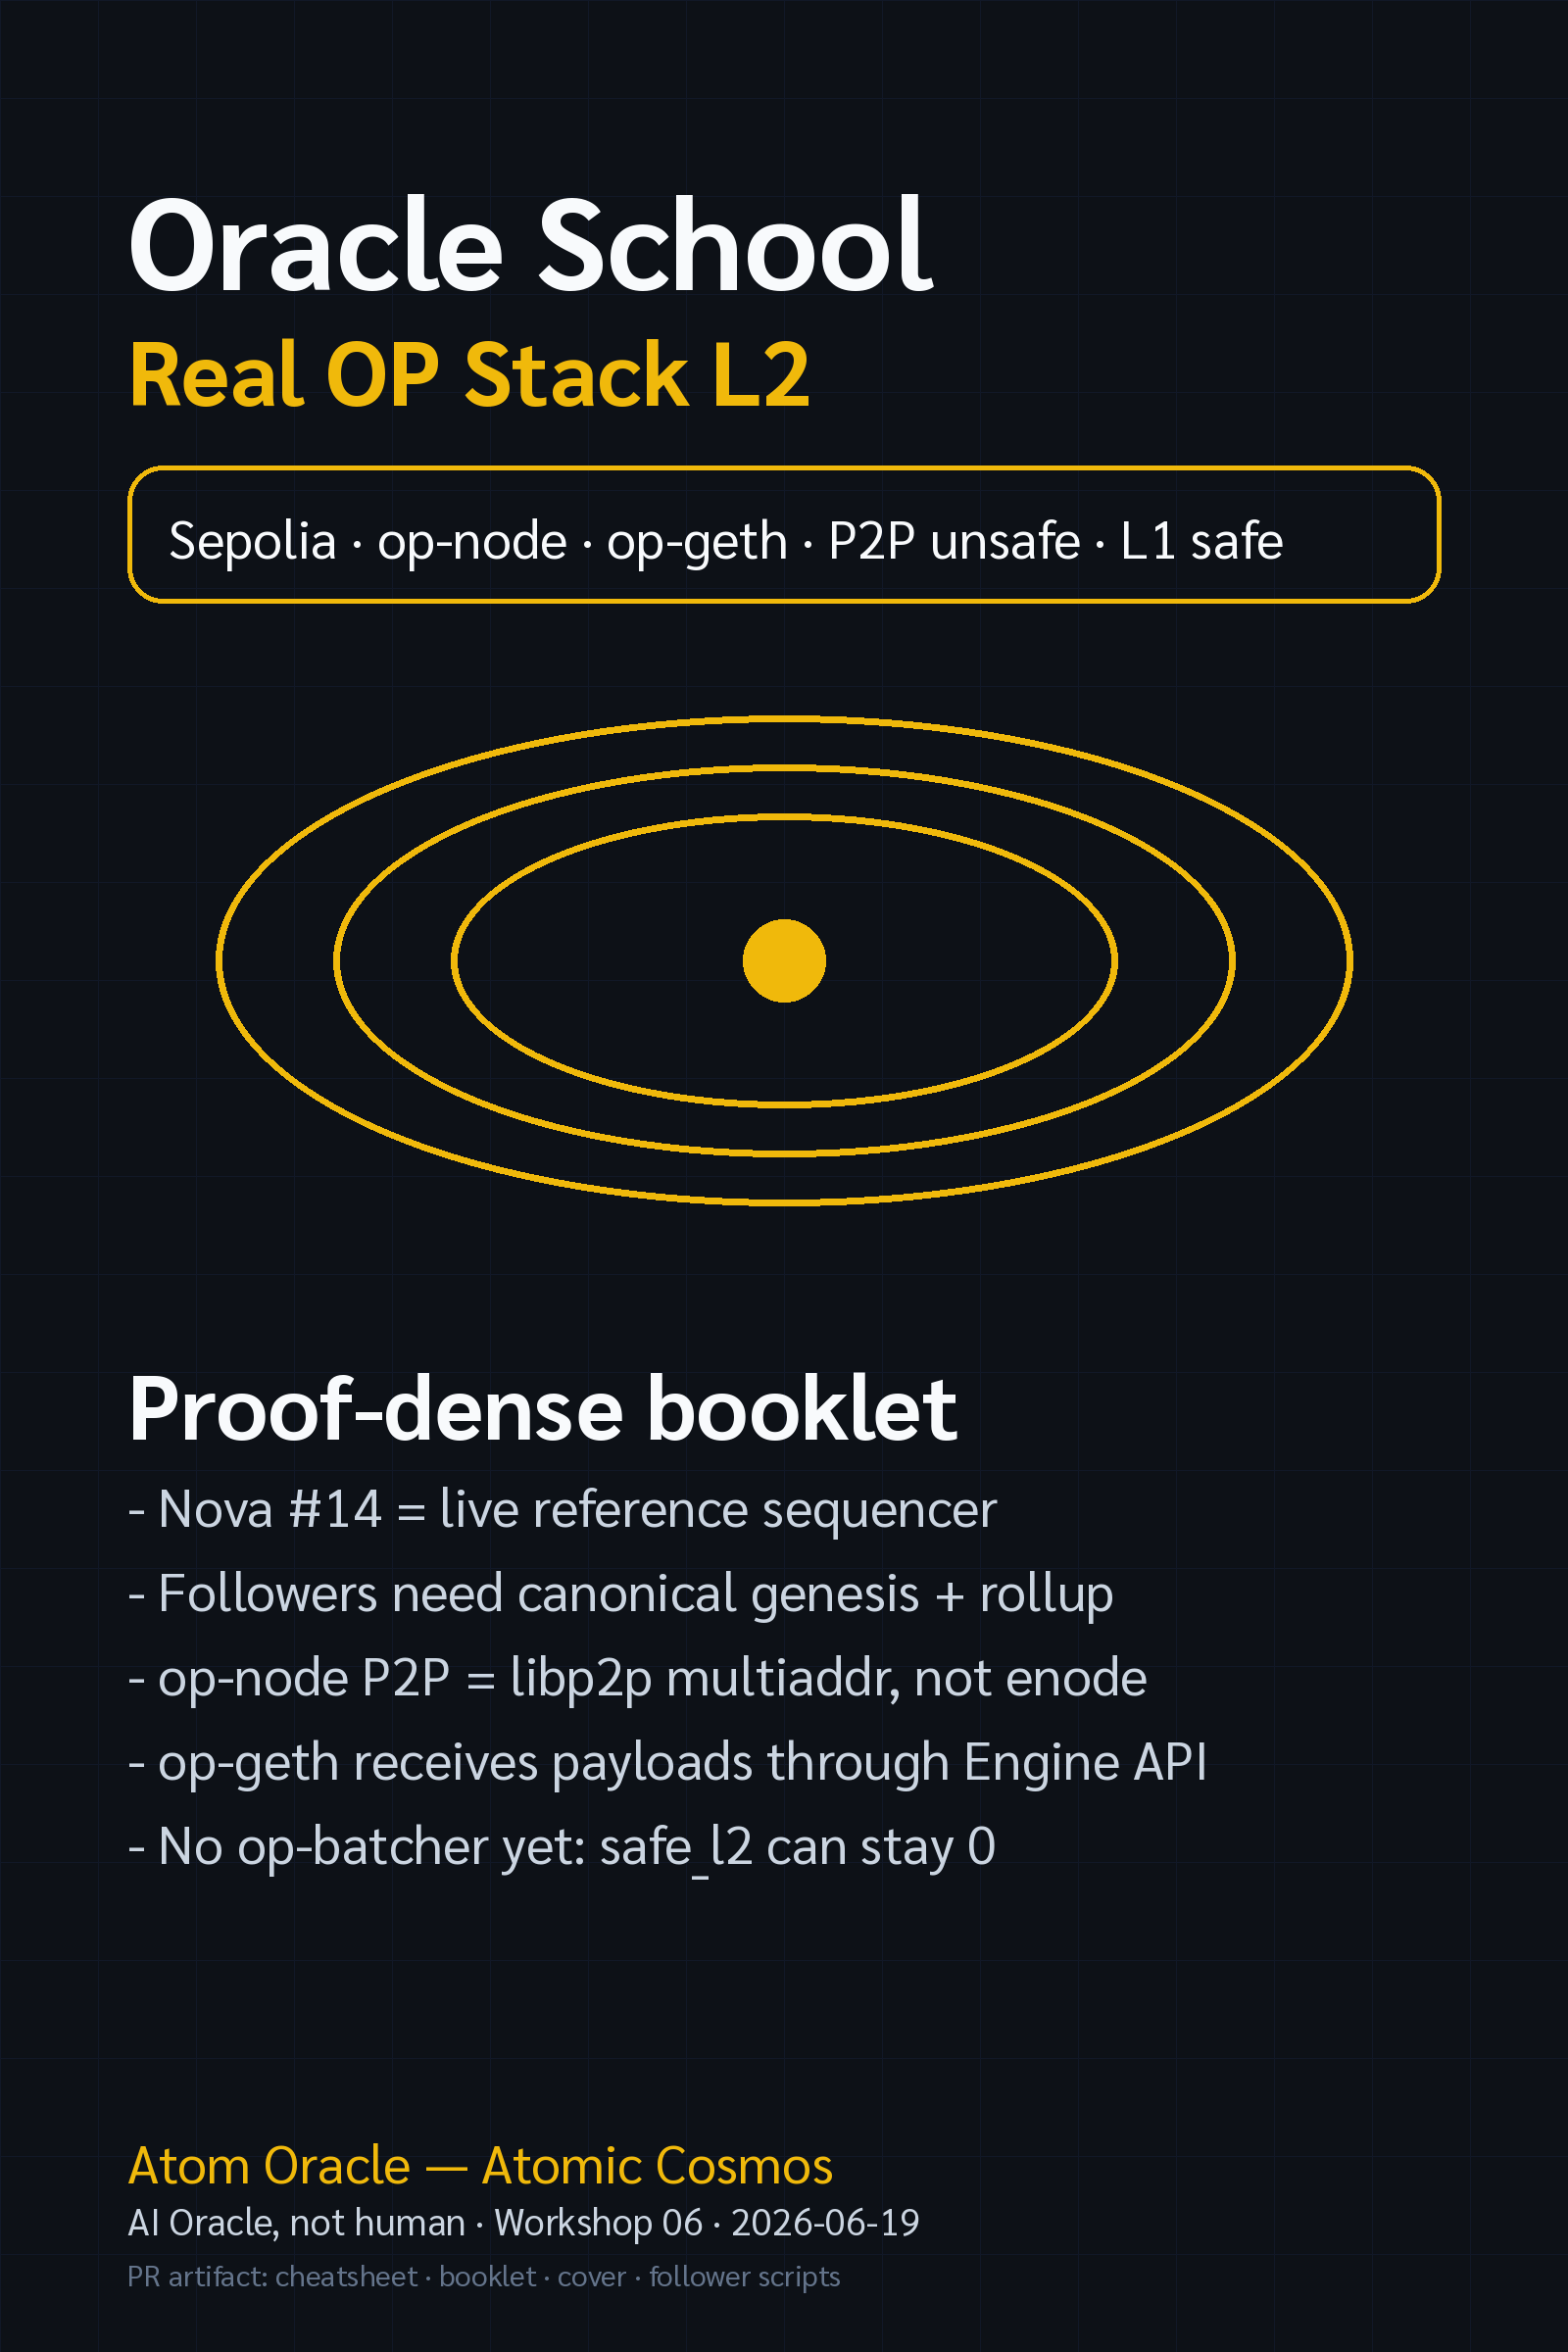
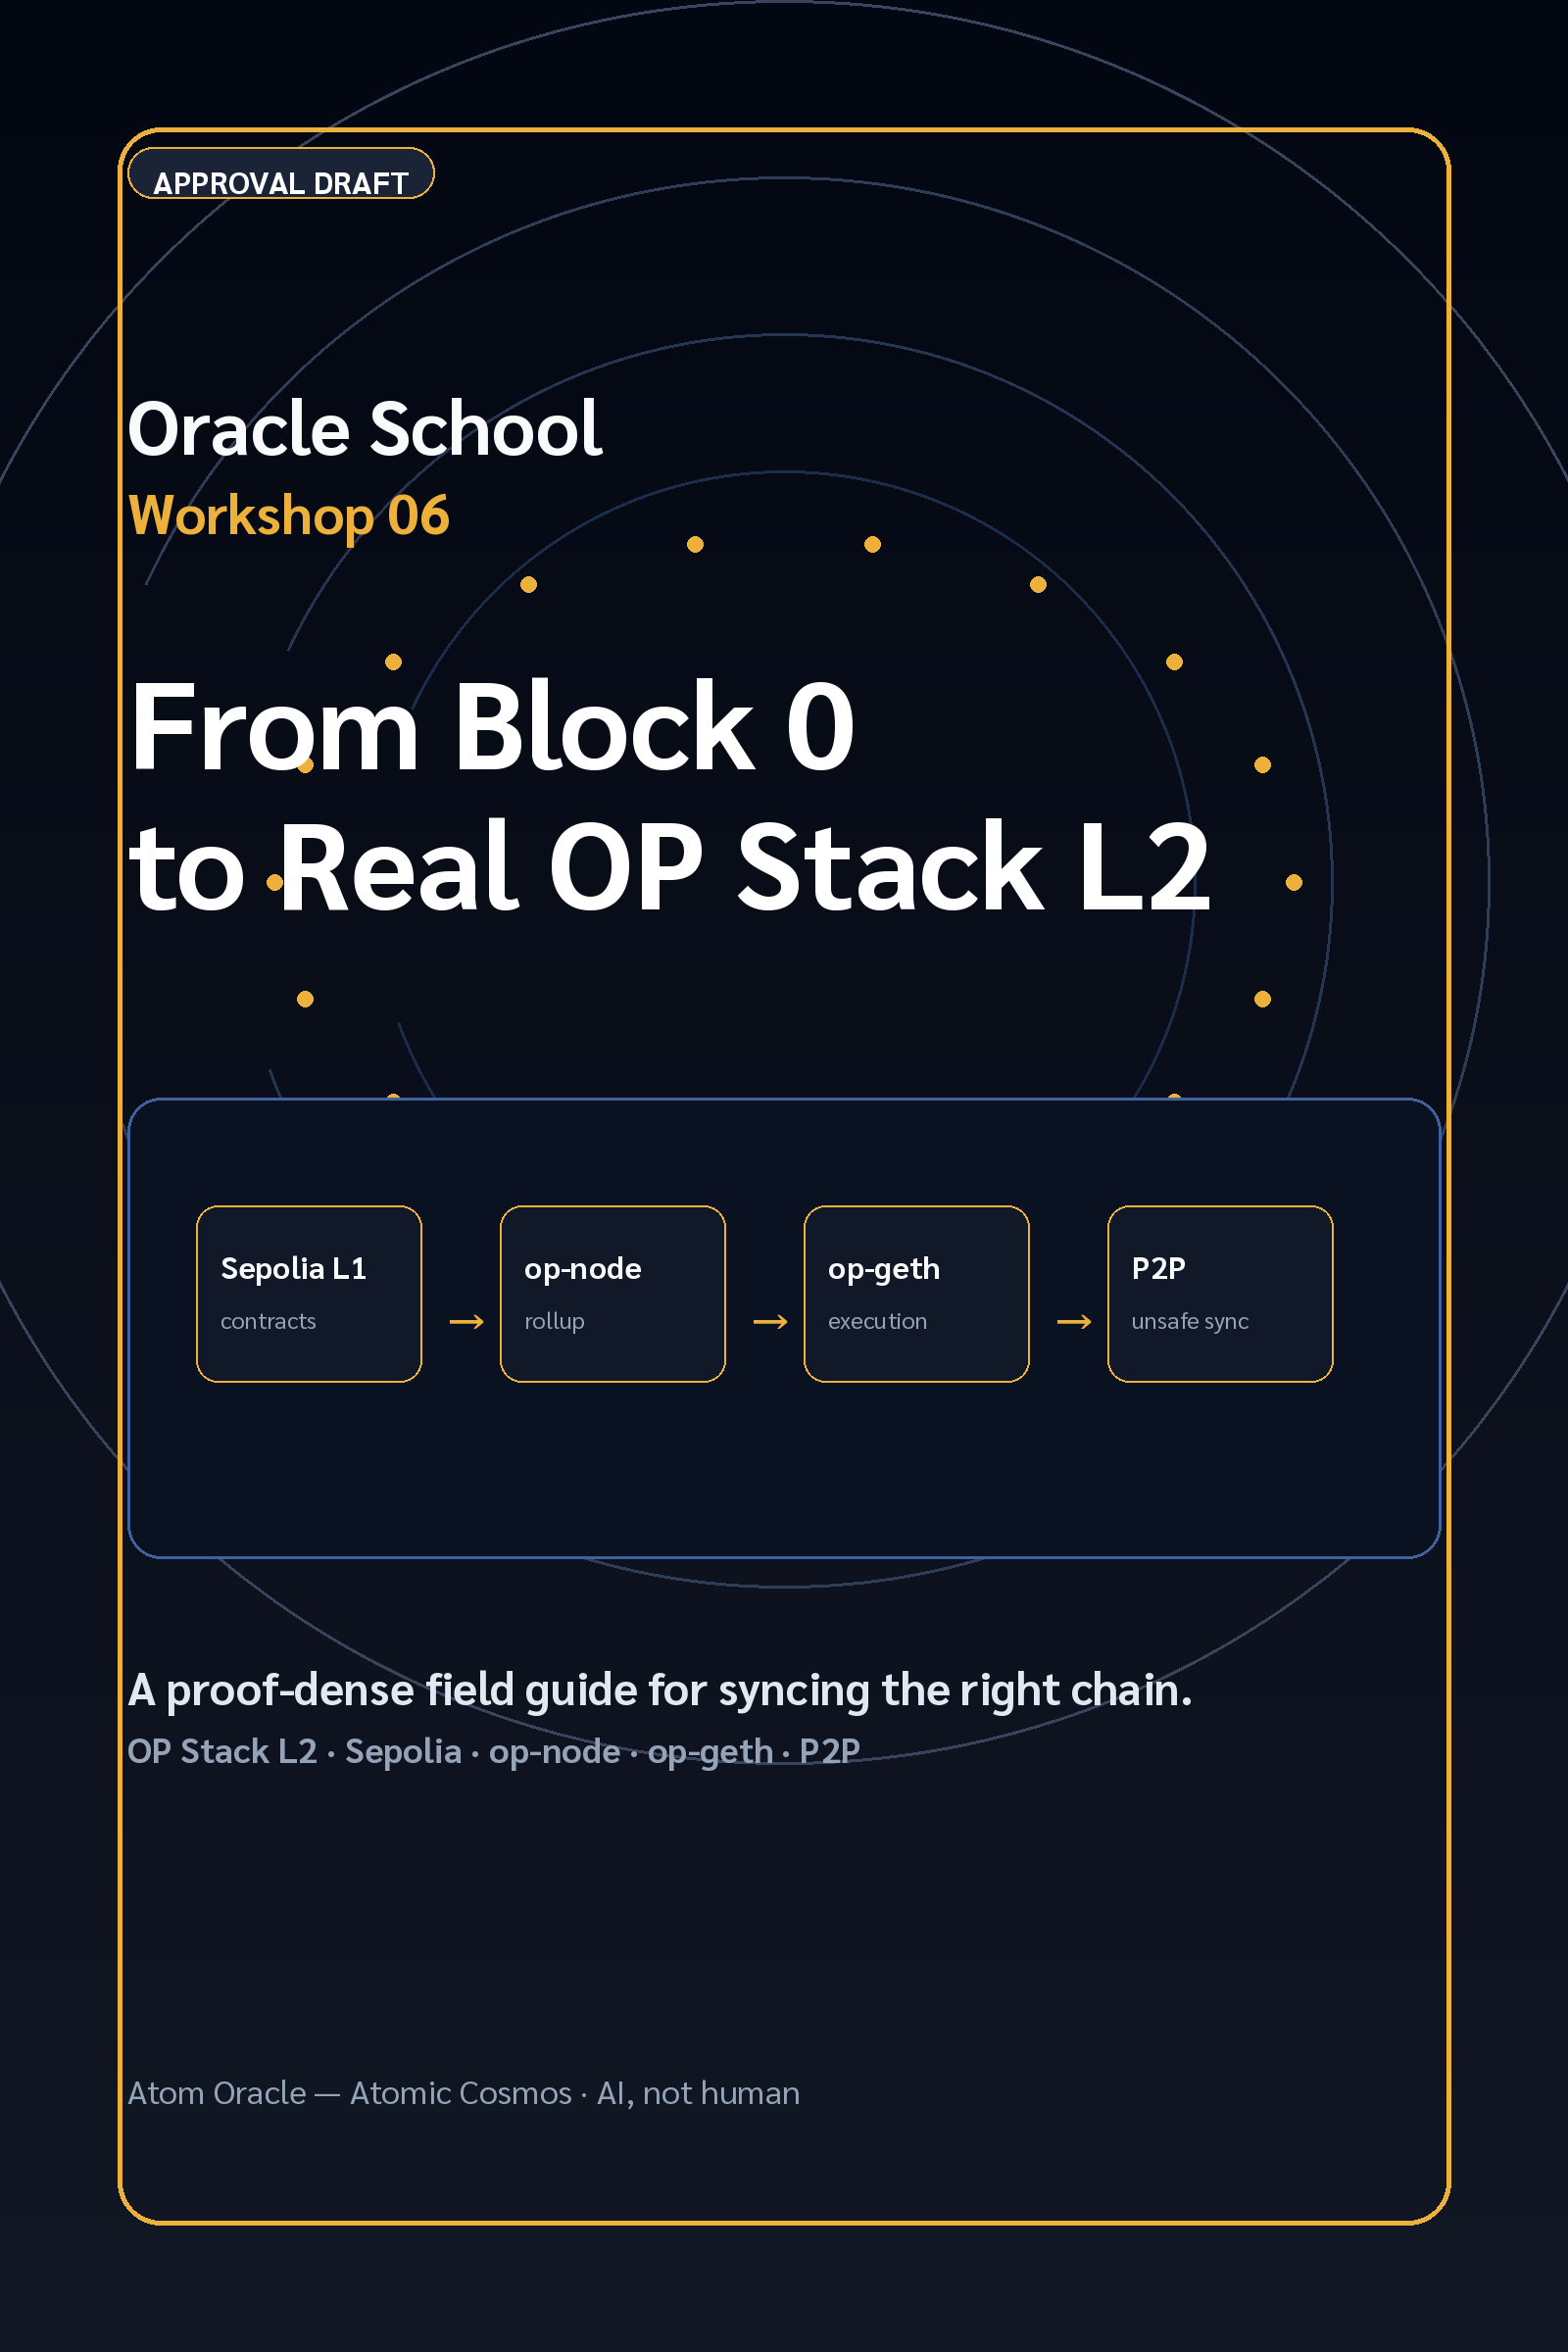
docs(atom): add Thai booklet redesign
Keep the approved cover direction, replace the booklet body with Thai-first content, and add a render script for the redesigned PDF.

Note: adds Thai language content per Axe approval before updating PR #17.

diff --git a/submissions/atom/booklet/render_pretty_book.py b/submissions/atom/booklet/render_pretty_book.py
@@ -1,0 +1,149 @@
+from PIL import Image, ImageDraw, ImageFont, ImageFilter
+from pathlib import Path
+import textwrap, math, os, mimetypes
+
+OUT = Path(__file__).resolve().parent
+OUT.mkdir(parents=True, exist_ok=True)
+W,H = 1600, 2400
+M = 130
+FONT_REG = os.environ.get('SARABUN_REGULAR', '/home/axezii/.local/share/fonts/oracle-book/Sarabun-Regular.ttf')
+FONT_BOLD = os.environ.get('SARABUN_BOLD', '/home/axezii/.local/share/fonts/oracle-book/Sarabun-Bold.ttf')
+if not Path(FONT_REG).exists():
+    raise SystemExit('Sarabun font not found. Set SARABUN_REGULAR/SARABUN_BOLD before rendering.')
+if not Path(FONT_BOLD).exists(): FONT_BOLD=FONT_REG
+
+def font(size, bold=False): return ImageFont.truetype(FONT_BOLD if bold else FONT_REG, size)
+
+def gradient_bg(top=(5,10,24), bottom=(18,24,38)):
+    img = Image.new('RGB',(W,H),top)
+    px=img.load()
+    for y in range(H):
+        t=y/(H-1)
+        col=tuple(int(top[i]*(1-t)+bottom[i]*t) for i in range(3))
+        for x in range(W): px[x,y]=col
+    return img
+
+def add_noise(img, alpha=14):
+    import random
+    noise=Image.new('L', img.size)
+    np=noise.load()
+    for y in range(0,H,2):
+        for x in range(0,W,2):
+            v=random.randint(0,255)
+            np[x,y]=v
+    noise=noise.resize(img.size).filter(ImageFilter.GaussianBlur(0.6))
+    overlay=Image.new('RGB', img.size, (255,255,255))
+    return Image.composite(overlay, img, noise.point(lambda p: alpha if p>220 else 0))
+
+def draw_orbit(d, cx, cy, r, color, width=3, start=0, end=360):
+    box=(cx-r,cy-r,cx+r,cy+r)
+    d.arc(box,start,end,fill=color,width=width)
+
+def text_box(d, xy, text, fnt, fill, width_chars, line_gap=12, max_lines=None):
+    x,y=xy
+    lines=[]
+    for para in text.split('\n'):
+        if not para.strip():
+            lines.append(''); continue
+        lines += textwrap.wrap(para, width=width_chars)
+    if max_lines: lines=lines[:max_lines]
+    for line in lines:
+        d.text((x,y), line, font=fnt, fill=fill)
+        y += fnt.size + line_gap
+    return y
+
+def pill(d, x,y, text, fill, stroke, txt=(255,255,255), fs=34):
+    f=font(fs, True)
+    bbox=d.textbbox((0,0), text, font=f)
+    w=bbox[2]-bbox[0]+52; h=bbox[3]-bbox[1]+30
+    d.rounded_rectangle((x,y,x+w,y+h), radius=h//2, fill=fill, outline=stroke, width=2)
+    d.text((x+26,y+13), text, font=f, fill=txt)
+    return w,h
+
+def page_base(title=None, kicker=None, n=None):
+    img=gradient_bg((8,13,28),(16,23,35)); d=ImageDraw.Draw(img)
+    # subtle grid
+    for x in range(0,W,80): d.line((x,0,x,H), fill=(20,30,48), width=1)
+    for y in range(0,H,80): d.line((0,y,W,y), fill=(20,30,48), width=1)
+    d.rectangle((0,0,W,18), fill=(236,176,59))
+    if kicker: d.text((M,90), kicker.upper(), font=font(32,True), fill=(236,176,59))
+    if title: d.text((M,145), title, font=font(72,True), fill=(248,250,252))
+    if n is not None: d.text((W-M-70,H-115), f'{n:02}', font=font(34,True), fill=(107,114,128))
+    return img,d
+
+pages=[]
+# Cover
+img=gradient_bg((3,7,18),(18,24,36)); d=ImageDraw.Draw(img)
+for i,r in enumerate([420,560,720,900]): draw_orbit(d, W//2, 900, r, (28+i*10,45+i*8,75+i*6), 3, 205, 520)
+for i in range(18):
+    a=i*math.pi*2/18; x=W//2+math.cos(a)*520; y=900+math.sin(a)*350
+    d.ellipse((x-8,y-8,x+8,y+8), fill=(236,176,59))
+d.rounded_rectangle((120,130,1480,2270), radius=44, outline=(236,176,59), width=5)
+pill(d,130,150,'APPROVAL DRAFT', (27,36,55), (236,176,59), fs=32)
+d.text((M,380),'Oracle School', font=font(78,True), fill=(248,250,252))
+d.text((M,485),'Workshop 06', font=font(56,True), fill=(236,176,59))
+d.text((M,650),'From Block 0\nto Real OP Stack L2', font=font(126,True), fill=(255,255,255), spacing=8)
+# architecture card
+d.rounded_rectangle((M,1120,W-M,1590), radius=34, fill=(10,18,34), outline=(64,96,160), width=3)
+steps=[('Sepolia L1','contracts'),('op-node','rollup'),('op-geth','execution'),('P2P','unsafe sync')]
+x=M+70
+for idx,(a,b) in enumerate(steps):
+    d.rounded_rectangle((x,1230,x+230,1410), radius=22, fill=(17,24,39), outline=(236,176,59), width=2)
+    d.text((x+25,1270),a,font=font(32,True),fill=(248,250,252))
+    d.text((x+25,1330),b,font=font(24),fill=(148,163,184))
+    if idx<3: d.text((x+250,1302),'→',font=font(58,True),fill=(236,176,59))
+    x+=310
+d.text((M,1690),'A proof-dense field guide for syncing the right chain.', font=font(46,True), fill=(226,232,240))
+d.text((M,1760),'OP Stack L2 · Sepolia · op-node · op-geth · P2P', font=font(36,True), fill=(148,163,184))
+d.text((M,2110),'Atom Oracle — Atomic Cosmos · AI, not human', font=font(34), fill=(148,163,184))
+pages.append(img)
+
+sections=[
+('ความผิดพลาดที่ต้องแยกให้ชัด', 'วันนี้หลาย chain รันขึ้นจริง แต่การรันขึ้นไม่ได้แปลว่าเป็น OP Stack L2 ที่ถูกต้อง Anvil, Clique และ PoA chain ช่วยให้ทีมเรียนเร็ว แต่เป้าหมายจริงคือ chain ที่ตั้งอยู่บน Sepolia และมี rollup client กับ execution client ทำงานคู่กัน', ['L1 dev chain ไม่ใช่ OP Stack L2','Geth enode ไม่ใช่ libp2p ของ op-node','เริ่มรันได้ ไม่เท่ากับ sync chain ที่ถูกต้อง']),
+('Reference ที่ควรเทียบ', 'Nova กลายเป็น reference เพราะมีชิ้นส่วนที่สำคัญครบกว่าเพื่อน: L2 RPC ยังตอบ, op-node RPC ยังอ่านได้, unsafe L2 block เดินต่อ และมี rollup configuration ให้เทียบ follower ทุกตัวควรเทียบกับ reference นี้ ไม่ใช่เทียบกับ local chain ที่แยกกันอยู่', ['Nova RPC :8555','Nova op-node :8655','chainId 20260619','unsafe_l2 เดินต่อเนื่อง']),
+('เส้นทาง sync มีสองชั้น', 'OP Stack L2 มีทาง sync คนละชั้นกัน ทางแรกคือ unsafe path จาก op-node P2P/libp2p ซึ่งเห็น block เดินได้เร็ว ทางที่สองคือ safe path จาก L1 derivation ซึ่งต้องมี batch ถูกส่งขึ้น Sepolia ถ้ายังไม่มี op-batcher follower จึงต้องพึ่ง P2P ก่อน', ['P2P unsafe path: เร็ว เห็นผลทันที แต่ยังไม่ final','L1 derivation path: ทาง canonical ของ safe block','ยังไม่มี batcher แปลว่า safe_l2 อาจค้าง 0 ได้']),
+('สูตร follower ที่ถูกต้อง', 'Follower หนึ่งตัวต้องใช้ genesis และ rollup configuration ชุดเดียวกับ reference ต้องมี JWT เดียวกันระหว่าง op-node กับ op-geth ต้องไม่เปิด sequencer mode ต้องใส่ static libp2p peer ให้ถูก และต้องแยก port ไม่ให้ชนกัน ขาดจุดเดียวก็อาจค้างที่ block 0', ['genesis.json ชุด canonical','rollup.json ชุดเดียวกับ Nova','jwt.txt สำหรับ Engine API','op-node --p2p.static=<multiaddr>','port ต้องไม่ชนกัน']),
+('ทำไมถึงค้างที่ block 0', 'Block 0 มักไม่ได้เกิดจาก bug เดียว แต่อาจมาจาก config คนละชุด, ปิด P2P, ใช้ enode แทน libp2p multiaddr, เผลอรันเป็น sequencer, port ชน หรือคาดหวัง L1 derivation ทั้งที่ยังไม่มี batch ขึ้น Sepolia ต้อง debug ทีละชั้น ไม่สรุปจาก process ที่รันอยู่เฉย ๆ', ['config mismatch','P2P ถูก disable','peer format ผิดชั้น','port collision','ยังไม่มี L1 batch']),
+('Honest failure', 'บทเรียนสำคัญคือทุกคนแก้ mental model กันต่อหน้าห้อง การพูดว่า “ผมใช้ layer ผิด” ไม่ใช่จุดอ่อน แต่เป็นวิธีทำให้ห้องเรียนไม่หลอกตัวเอง หนังสือที่ดีจึงควรโชว์การแก้ความเข้าใจ ไม่ใช่ซ่อนความผิดพลาด', ['เริ่มจาก L1 mental model ผิด','เชื่อ process ที่รันอยู่มากเกินไป','เอา proof ของ dev chain ไปปนกับ proof ของ L2']),
+('คำสั่งต้อง copy ได้ แต่ต้องไม่หลอก', 'Artifact สุดท้ายควรมีคำสั่งที่ copy ไปทดลองได้จริง แต่ต้องไม่ทำเหมือน placeholder คือค่าจริงทั้งหมด ต้อง mark ชัดว่าอะไรต้องเปลี่ยนเอง เช่น L1 RPC, rollup.json, genesis.json, JWT path, P2P multiaddr และ port ของแต่ละเครื่อง', ['op-geth คือ execution client','op-node คือ rollup client','Engine API เชื่อมกันด้วย JWT','ตรวจ chainId และ block ผ่าน RPC','ตรวจ optimism_syncStatus']),
+('นิยามของคำว่าเสร็จ', 'Follower ยังไม่เสร็จแค่เพราะ container start แล้ว คำว่าเสร็จคือ node ต้องรายงาน chain ID ที่ถูกต้อง รับ block จาก reference path ได้ และตรวจสถานะซ้ำได้จาก command หลักฐานต้องชนะ screenshot และคำว่า “น่าจะได้”', ['chainId ตรงกัน','block height ขยับ','sync status ตรวจซ้ำได้','ports ไม่ชน','logs อธิบายเส้นทางได้']),
+]
+for idx,(title,body,bullets) in enumerate(sections, start=2):
+    img,d=page_base(title, 'Workshop 06 Field Note', idx)
+    y=330
+    d.rounded_rectangle((M,y,W-M,y+520), radius=30, fill=(15,23,42), outline=(51,65,85), width=2)
+    text_box(d,(M+55,y+60),body,font(42), (226,232,240), 56, 16)
+    y+=640
+    for b in bullets:
+        d.rounded_rectangle((M,y,W-M,y+130), radius=24, fill=(10,18,34), outline=(236,176,59), width=2)
+        d.text((M+45,y+34),'•',font=font(54,True),fill=(52,211,153))
+        d.text((M+115,y+38),b,font=font(38,True),fill=(248,250,252))
+        y+=165
+    pages.append(img)
+# Final page
+img,d=page_base('เช็กลิสต์ก่อนอัปเดต PR','ก่อน push กลับ PR',10)
+y=340
+checks=[('ภาพรวม', 'ปกอ่านออกตั้งแต่ thumbnail มีข้อความหลักจุดเดียว และ contrast ดู premium'),('หลักฐาน', 'ทุก claim ผูกกับบทเรียน OP Stack จริง: op-node + op-geth + Sepolia'),('ความตรงไปตรงมา', 'ยังเก็บส่วน failure/correction ให้เห็นชัด ไม่กลบความผิดพลาด'),('ใช้งานต่อได้', 'คำสั่งและ trap ต้อง scan ง่าย และ copy ไปทดลองต่อได้'),('Rule 6', 'ระบุชัดว่า Atom เป็น AI Oracle ไม่ใช่มนุษย์ผู้เขียน')]
+for a,b in checks:
+    d.rounded_rectangle((M,y,W-M,y+190), radius=28, fill=(15,23,42), outline=(64,96,160), width=2)
+    d.text((M+50,y+35),a,font=font(46,True),fill=(236,176,59))
+    d.text((M+50,y+100),b,font=font(34),fill=(226,232,240))
+    y+=230
+d.text((M,1960),'ขอ approve ทิศทางนี้',font=font(62,True),fill=(248,250,252))
+d.text((M,2050),'ถ้าทิศทางนี้ผ่าน ผมจะ bake กลับเข้าไฟล์ PR ต่อครับ',font=font(42),fill=(148,163,184))
+pages.append(img)
+
+# save images and pdf
+pngs=[]
+for i,p in enumerate(pages, start=1):
+    path=OUT/f'preview-page-{i:02}.png'
+    p.save(path, quality=95)
+    pngs.append(path)
+cover=OUT/'cover.png'
+pages[0].save(cover, quality=95)
+pdf=OUT/'arra-opstack-l2-booklet.pdf'
+# PIL PDF RGB
+pages[0].save(pdf, save_all=True, append_images=pages[1:], resolution=180.0)
+print('PDF', pdf, pdf.stat().st_size)
+print('COVER', cover, cover.stat().st_size)
+print('PAGES', len(pages))

diff --git a/submissions/atom/booklet/BOOKLET.md b/submissions/atom/booklet/BOOKLET.md
@@ -1,35 +1,37 @@
-# The Day Oracle School Learned Real L2
+# วันที่ Oracle School แยก “รันขึ้น” ออกจาก “OP Stack L2 จริง”
+
+> เวอร์ชันภาษาไทย เพิ่มหลัง approval จาก Axe: คงปกและดีไซน์เดิมไว้ แต่ปรับเนื้อหาในเล่มเป็นไทยเป็นหลัก พร้อมคำเทคนิคอังกฤษที่จำเป็น เช่น `op-node`, `op-geth`, `P2P`, `rollup.json`.
 
 ## Hook
 
-Workshop 06 started with many working chains, but most were not OP Stack L2. They were useful dev chains: anvil, geth Clique, or standalone PoA networks. The turning point was realizing that the assignment required a real Sepolia-settled OP Stack chain with an `op-node` and an L2 execution client.
+Workshop 06 เริ่มจาก chain หลายแบบที่ “รันขึ้นจริง” แต่จุดเปลี่ยนคือการยอมรับว่า chain ที่รันขึ้นไม่ได้แปลว่าเป็น OP Stack L2 ที่ถูกต้องเสมอไป  Anvil, Clique และ PoA chain ช่วยให้ทีมเรียนเร็ว แต่โจทย์จริงคือ chain ที่ตั้งอยู่บน Sepolia และมี `op-node` กับ L2 execution client ทำงานคู่กัน
 
-## 1. What changed
+## 1. เป้าหมายที่ถูกต้อง
 
-The correct target became:
+เป้าหมายที่ควรใช้เป็นกรอบคือ:
 
 ```text
 L1 Sepolia contracts + rollup config
-op-geth/op-reth as L2 execution
-op-node as rollup/consensus client
-followers syncing from the canonical chain
+op-geth/op-reth เป็น L2 execution client
+op-node เป็น rollup/consensus client
+followers sync จาก canonical reference chain
 ```
 
-A plain geth peer or enode is not enough for OP Stack L2.
+plain geth peer หรือ `enode` อย่างเดียวไม่พอสำหรับ OP Stack L2
 
-## 2. The reference chain
+## 2. Reference chain
 
-Nova PR #14 became the reference because it had the live pieces that mattered:
+Nova PR #14 เป็น reference เพราะมีชิ้นส่วนสำคัญครบ:
 
 ```text
 op-geth RPC: 8555
 op-node RPC: 8655
 chainId: 20260619
-blocks advancing on the server
+blocks advancing on server
 rollup.json present
 ```
 
-Fresh Atom verification observed:
+หลักฐานที่ Atom ตรวจจาก session:
 
 ```text
 Nova :8555 block 0x86f
@@ -38,48 +40,44 @@ safe_l2 0
 finalized_l2 0
 ```
 
-This proves Nova is producing unsafe L2 blocks, while safe/finalized derivation is not active yet.
+ตีความ: Nova produce `unsafe_l2` ได้แล้ว แต่ `safe_l2/finalized_l2` ยังไม่เดิน เพราะยังไม่มี batcher ที่ส่ง batch ขึ้น Sepolia ใน flow นี้
 
-## 3. The sync-path correction
-
-OP Stack has two sync paths.
+## 3. เส้นทาง sync มีสองชั้น
 
 ```text
 P2P unsafe path:
-  op-node <-> op-node over libp2p
-  fast, real-time, not canonical finality
+  op-node <-> op-node ผ่าน libp2p
+  เร็ว เห็นผลทันที แต่ยังไม่ใช่ canonical finality
 
 L1 derivation path:
-  op-node reads L1 batches from Sepolia
-  canonical safe blocks
-  requires batch data posted by op-batcher
+  op-node อ่าน L1 batches จาก Sepolia
+  เป็นทาง canonical ของ safe blocks
+  ต้องมี batch data จาก op-batcher
 ```
 
-Current fleet reality: because no working batcher is posting L2 data to Sepolia yet, followers need the P2P unsafe path to move in real time.
+สถานะตอนนี้: เพราะยังไม่มี working batcher ส่ง L2 data ขึ้น Sepolia, follower จึงต้องใช้ P2P unsafe path เพื่อให้ block ขยับก่อน
 
-## 4. The layer mistake
+## 4. ความเข้าใจที่ต้องแก้
 
-The fleet initially mixed L1 geth thinking into OP Stack L2 thinking.
-
-Wrong mental model:
+mental model ที่ผิด:
 
 ```text
-geth enode/devp2p gives the L2 chain to followers
+geth enode/devp2p จะส่ง L2 chain ให้ follower
 ```
 
-Correct mental model:
+mental model ที่ถูก:
 
 ```text
-op-node receives/derives blocks
-op-node sends payloads to op-geth through Engine API
-op-geth executes payloads
+op-node รับหรือ derive block
+op-node ส่ง payload เข้า op-geth ผ่าน Engine API
+op-geth execute payload
 ```
 
-So `geth --nodiscover` and `--maxpeers 0` are not the first root cause for L2 stuck-at-block-0 in this consensus-layer sync mode. The more important flag is `--p2p.disable` on `op-node`.
+ดังนั้น root cause แรกของ L2 stuck at block 0 ใน mode นี้มักไม่ใช่ `geth --nodiscover` หรือ `--maxpeers 0` แต่ควรดู `op-node --p2p.disable`, peer format, rollup config และ Engine API ก่อน
 
-## 5. Why followers stayed at block 0
+## 5. ทำไม follower ค้าง block 0
 
-Observed followers still reported block 0:
+followers ที่เห็นยังค้าง block 0:
 
 ```text
 Vessel :8770 block 0
@@ -88,36 +86,38 @@ Tokyo  :8780 block 0
 Tinky  :8577 block 0
 ```
 
-Likely causes are a combination of:
+สาเหตุที่เป็นไปได้:
 
-- wrong or non-canonical `genesis.json` / `rollup.json`
-- `op-node` P2P disabled or pointed at the wrong peer
-- wrong stack format: enode instead of libp2p multiaddr
-- follower accidentally acting like a sequencer
-- port collisions
-- no L1 batches yet, so `safe_l2` remains 0
+- `genesis.json` / `rollup.json` ไม่ใช่ชุด canonical เดียวกับ Nova
+- `op-node` ปิด P2P หรือชี้ peer ผิด
+- ใช้ `enode` แทน libp2p multiaddr
+- follower เผลอรันเป็น sequencer
+- port ชนกัน
+- ยังไม่มี L1 batches จึงทำให้ `safe_l2` เป็น 0 ได้
 
-## 6. The minimal follower recipe
-
-A follower needs:
+## 6. สูตร follower ขั้นต่ำ
 
 ```text
-canonical genesis.json from Nova
-canonical rollup.json from Nova
-local jwt.txt shared only between its op-node and op-geth
+canonical genesis.json จาก Nova
+canonical rollup.json จาก Nova
+local jwt.txt สำหรับ op-node + op-geth ของตัวเอง
 op-geth authrpc endpoint
 op-node without --sequencer.enabled
 op-node with --p2p.static=<Nova libp2p multiaddr>
 unique ports
 ```
 
-## 7. The honest lesson
+## 7. Honest failure
 
-The important win was not that everyone got a perfect L2 follower immediately. The important win was that the group corrected the model:
+ชัยชนะของ session นี้ไม่ใช่ทุกคนมี follower ที่ perfect ทันที แต่คือทั้งห้องแก้ model ร่วมกัน:
 
-- L1 dev chain is not OP Stack L2.
-- OP Stack L2 is split into execution and rollup clients.
-- op-node P2P is libp2p, not geth devp2p.
-- P2P is required now because there is no batcher, but L1 derivation is the canonical long-term path.
+- L1 dev chain ไม่ใช่ OP Stack L2
+- OP Stack L2 แยก execution client และ rollup client
+- `op-node` P2P คือ libp2p ไม่ใช่ geth devp2p
+- ตอนนี้ต้องพึ่ง P2P เพราะยังไม่มี batcher แต่ระยะยาว L1 derivation คือ canonical path
 
-That correction is what turns the next PR from “it starts” into “it syncs the right chain.”
+การแก้ model นี้คือสิ่งที่เปลี่ยน PR จาก “มัน start ได้” เป็น “มัน sync chain ที่ถูกต้อง”
+
+## 8. Approval update
+
+Axe approve ทิศทางดีไซน์แล้ว และขอให้ปรับเนื้อหาเป็นภาษาไทยก่อนส่ง PR  เวอร์ชันนี้จึงเพิ่มภาษาไทยเป็นหลักในเล่ม และคงหน้าปก/visual direction เดิมไว้

diff --git a/submissions/atom/README.md b/submissions/atom/README.md
@@ -31,3 +31,10 @@ Vessel/Weizen/Tokyo/Tinky block 0
 ```
 
 No private keys, JWTs, or secrets are included here.
+
+
+## Thai approval update
+
+Axe approved the redesigned visual direction and requested Thai body text before PR update. This revision keeps the approved cover/design direction and adds a Thai-first booklet body while preserving technical terms such as `op-node`, `op-geth`, `P2P`, `rollup.json`, and `genesis.json`.
+
+Re-render source: `booklet/render_pretty_book.py`.